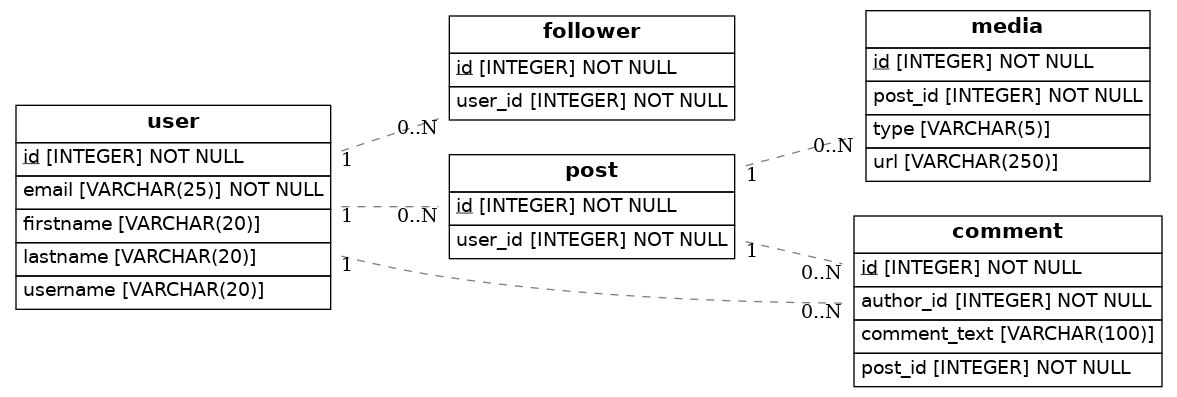
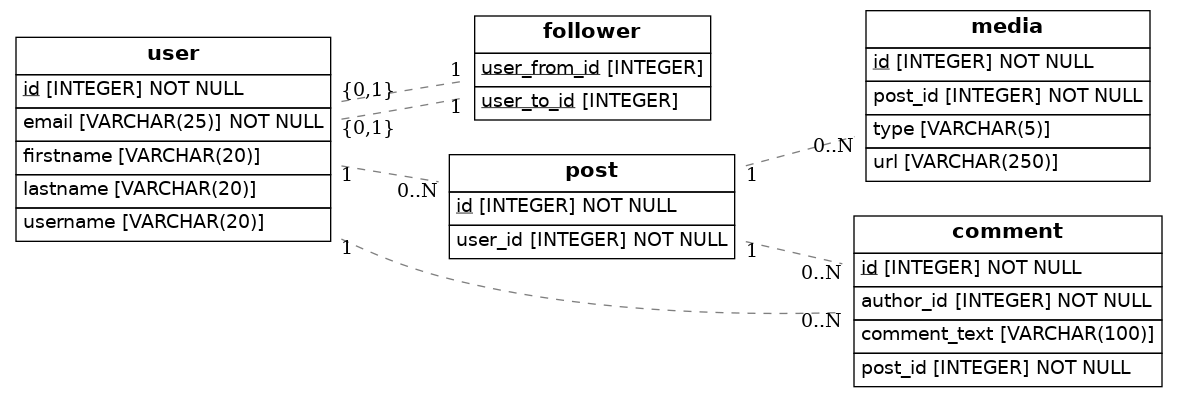
Modificación id Follower creada

diff --git a/src/models.py b/src/models.py
@@ -17,9 +17,8 @@ class User(Base):
 
 class Follower(Base):
     __tablename__ = 'follower'
-    id = Column(Integer, primary_key=True)
-    user_id = Column(Integer, ForeignKey('user.id'), nullable=False)
-    user = relationship(User)
+    user_to_id = Column(Integer, ForeignKey('user.id'), primary_key=True, nullable=True)
+    user_from_id = Column(Integer, ForeignKey('user.id'), primary_key=True, nullable=True)
 
 class Post(Base):
     __tablename__ = 'post'
